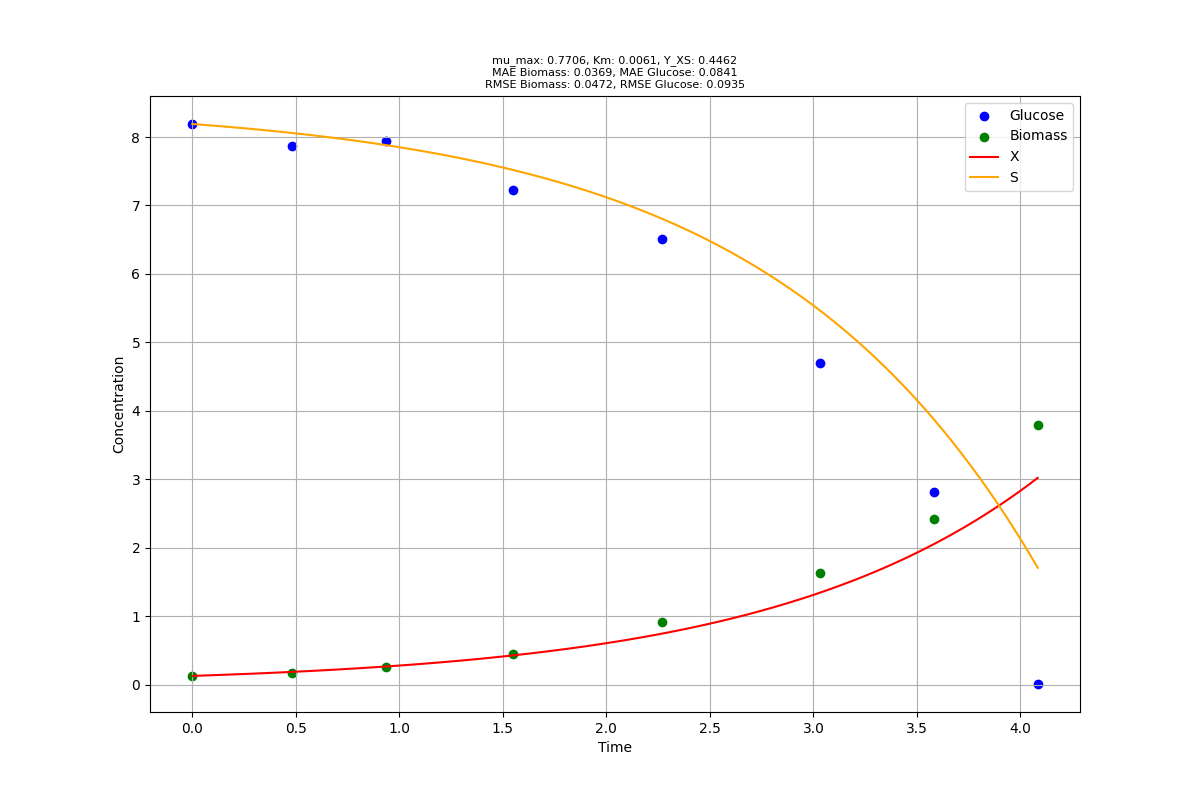
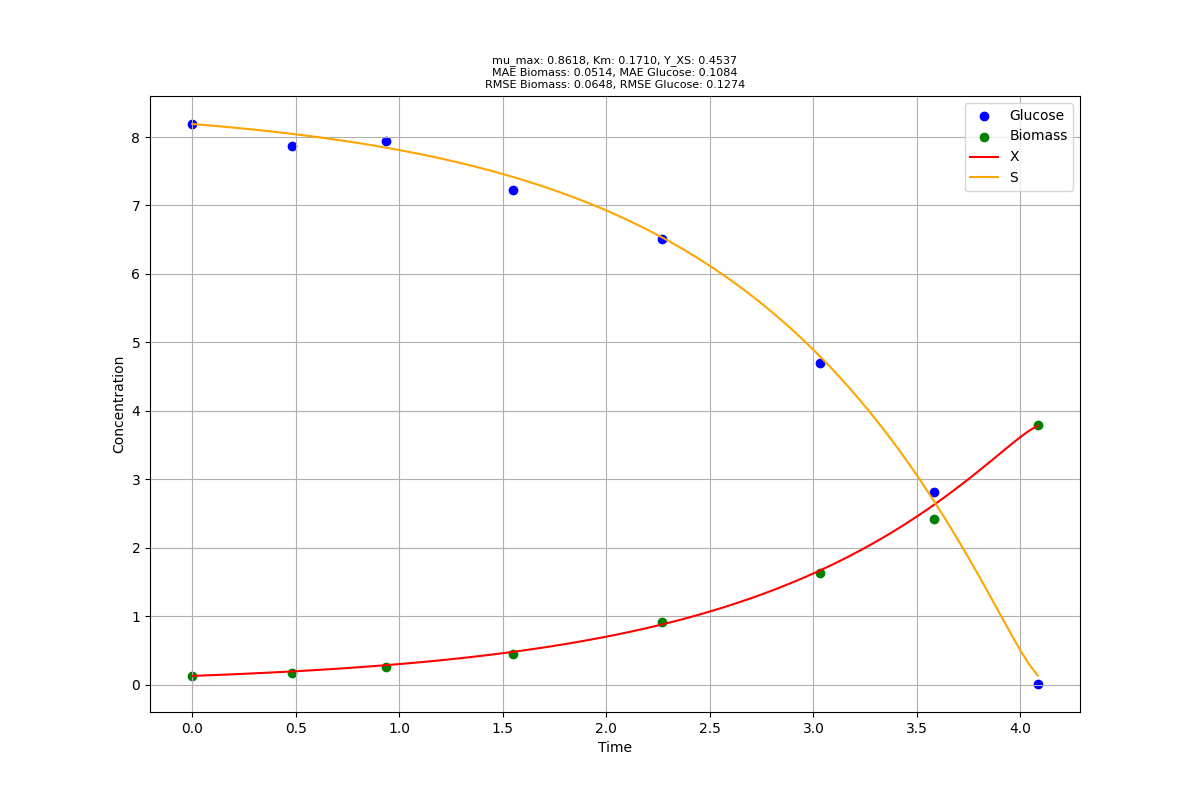
Update

diff --git a/Bioindustry/PINN.py b/Bioindustry/PINN.py
@@ -11,6 +11,8 @@ class PINN(nn.Module):
         super(PINN, self).__init__()
         self.input = nn.Linear(input_dim, 32)
         self.hidden = nn.Linear(32, 32)
+        self.hidden2 = nn.Linear(32, 128)
+        self.hidden3 = nn.Linear(128, 32)
         self.output = nn.Linear(32, output_dim)
 
         # Initialize Linear layers
@@ -19,14 +21,9 @@ class PINN(nn.Module):
                 nn.init.xavier_normal_(m.weight)
                 nn.init.zeros_(m.bias)
 
-        # self.mu_max = nn.Parameter(torch.tensor([0.5]))
-        # self.Km = nn.Parameter(torch.tensor([0.5]))
-        # self.Y_XS = nn.Parameter(torch.tensor([0.5]))
-
-        # For fine tuning using all experiments
-        self.mu_max = nn.Parameter(torch.tensor([0.8348]))
-        self.Km = nn.Parameter(torch.tensor([0.1915]))
-        self.Y_XS = nn.Parameter(torch.tensor([0.4943]))
+        self.mu_max = nn.Parameter(torch.tensor([0.5]))
+        self.Km = nn.Parameter(torch.tensor([0.5]))
+        self.Y_XS = nn.Parameter(torch.tensor([0.5]))
 
         self.t_start = t_start
         self.t_end = t_end
@@ -34,6 +31,8 @@ class PINN(nn.Module):
     def forward(self, x):
         x = torch.tanh(self.input(x))
         x = torch.tanh(self.hidden(x))  # Hidden layer
+        x = torch.tanh(self.hidden2(x))  # Hidden layer
+        x = torch.tanh(self.hidden3(x))
         x = self.output(x)
         return x
 
@@ -63,7 +62,7 @@ def get_loss(model: nn.Module):
 def get_loss_sparse(model: nn.Module):
     t_0 = model.t_start
     t_1 = 2.0
-    step = 0.3
+    step = 0.2
     E_1 = 0
     E_2 = 0
     

diff --git a/Bioindustry/parameter_estimation_batch.py b/Bioindustry/parameter_estimation_batch.py
@@ -42,8 +42,10 @@ for exp_id in ["BR01", "BR02", "BR03", "BR04", "BR05", "BR06", "BR07", "BR08", "
     for epoch in range(EPOCHS):
         optimizer.zero_grad()
         u_pred = pinn(ts_train)
-        residual_pred = get_loss(pinn)
-        # residual_pred = get_loss_sparse(pinn)
+        if len(df) > 5:
+            residual_pred = get_loss(pinn)
+        else:
+            residual_pred = get_loss_sparse(pinn)
         loss = weight * criterion(u_pred, us_train)
         loss += residual_pred
         loss.backward()
@@ -65,10 +67,10 @@ for exp_id in ["BR01", "BR02", "BR03", "BR04", "BR05", "BR06", "BR07", "BR08", "
             pinn.Km.data = torch.tensor([0.2], device=device, dtype=torch.float32)
         
         if len(LOSS) > 5000:
-            if all(abs(loss_value - LOSS[-1]) < 0.10 * LOSS[-1] for loss_value in LOSS[-100:]) and loss.item() < 1.0:
+            if all(abs(loss_value - LOSS[-1]) < 0.05 * LOSS[-1] for loss_value in LOSS[-100:]) and loss.item() < 1.0:
                 print(f"Early stopping at epoch {epoch}")
                 break
-            elif all([loss_value < 0.03 for loss_value in LOSS[-10:]]):
+            elif all([loss_value < 0.02 for loss_value in LOSS[-100:]]):
                 print(f"Early stopping at epoch {epoch}")
                 break
 
